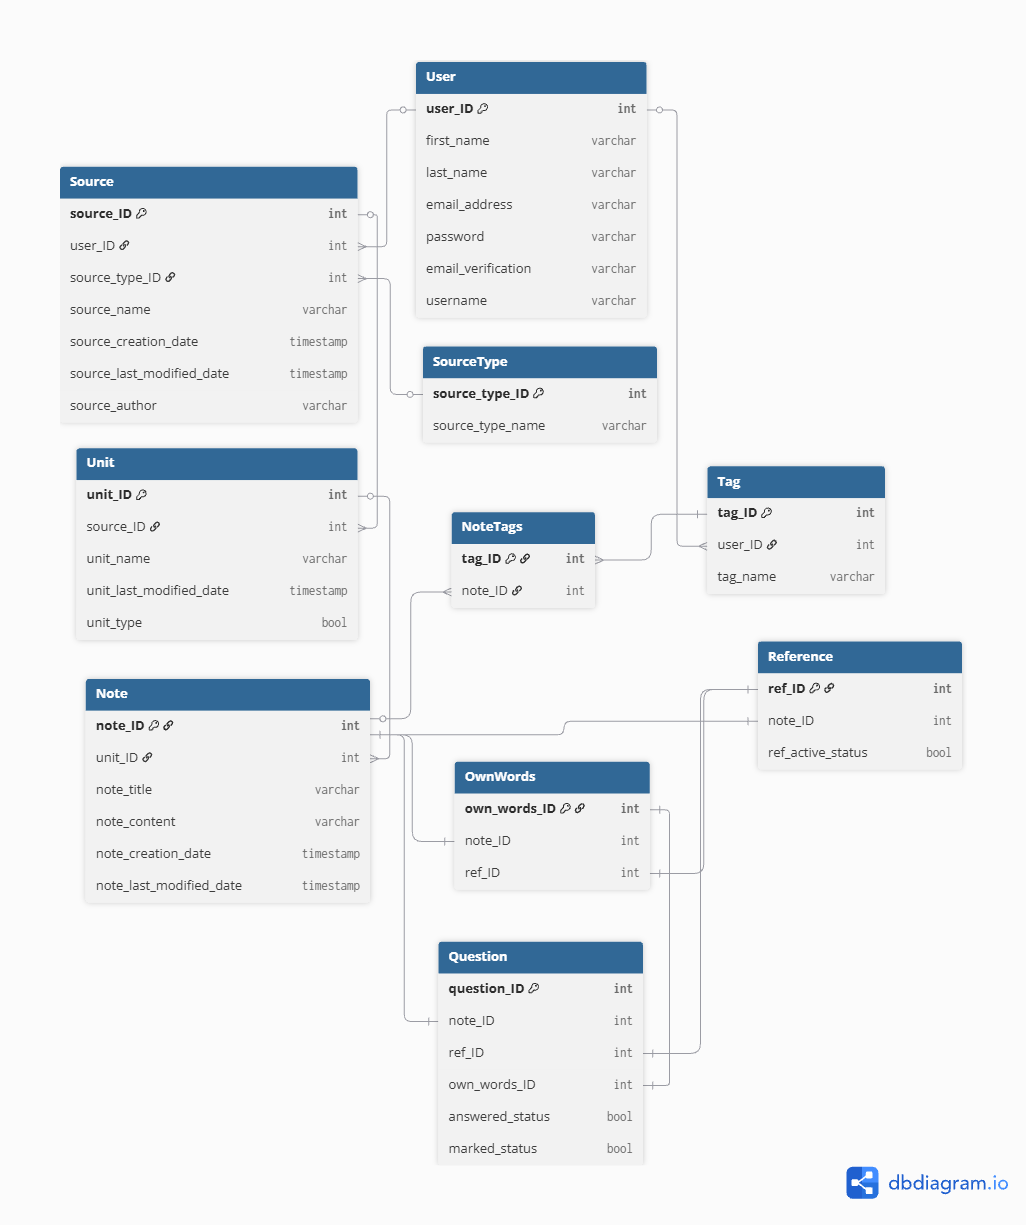
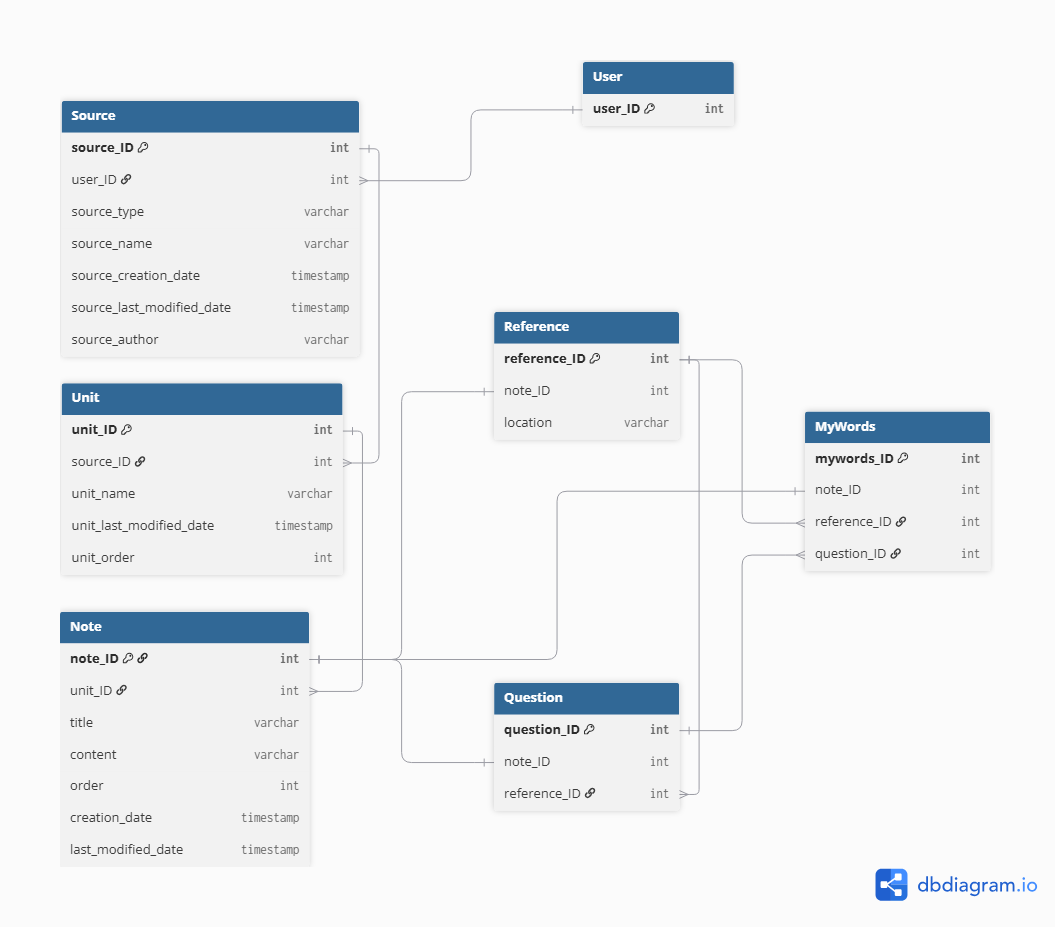
docs: add structure section to readme

diff --git a/README.md b/README.md
@@ -10,7 +10,7 @@ This workflow is derived from the Feynman Technique, which is a simple way of te
 - My Words notes - your attempt at the explanation itself: the same idea, rebuilt in your own plain language.
 - Question notes - a third note type meant to capture and make you aware of your gaps in understanding, which is arguably more important than being aware of what you already know and understand. By writing it down, you make sure it doesn't quietly disappear.
 
-The rest of this document walks through how that workflow was designed and built, loosely structured around the five planes of UX rather than the chronological order of development. This was a learn-as-you-build project and learning can be quite messy; the document tries to bring some order into chaos, and why not, be a blueprint for the development lifecycle of future projects.
+The rest of this document walks through how that workflow was designed and built, loosely structured around the five planes of UX, with some references to how some planes connects to corresponding backend decisions, rather than the chronological order of development. This was a learn-as-you-build project and learning can be quite messy; the document tries to bring some order into chaos, and why not, be a blueprint for the development lifecycle of future projects.
 
 ## Strategy
 **Origin**
@@ -51,9 +51,6 @@ graph TD
 - A third note category: **question notes** — an explicit, conscious decision to flag something as not yet understood, rather than leaving gaps implicit.
 
 The core hypothesis of this app remains untested. Rather than treat this as a limitation to work around, it defines what this project actually is: not a finished note-taking app, but the vehicle that will be used to test the hypothesis with real users, once it exists. The main target audience would be secondary school students and above (although the workflow is applicable to any independent learner engaging with source material).
-
-
-
 
 
 **Market Research for Landing and Dashboard/Editor**
@@ -473,7 +470,7 @@ Acceptance Criteria:
 - AC3: Calls-to-action are visually clear without relying on excessive decoration
 </details>
 <hr>
-<br>
+
 
 ### Features
 - Authentication: stories 1–4
@@ -490,20 +487,37 @@ Acceptance Criteria:
 - Responsiveness:story 28
 - Accessibility: story 27
 
-## Data Schema
+
+## Structure
+
+Structure, in this project, covers both the user-facing organization of features and the underlying architecture that supports it - the two are treated together here since app organization mirrors the same grouping logic as the feature themes established in Scope.
+
+### Features -> Apps
+
+- Authentication (stories 1–4) -> project level (django-allauth)
+- Structure + Comprehension Workflow (stories 5–22) -> `notes` app ( these two features map to one codebase app, as they share the same models, so splitting them wouldn't reduce coupling, just add import overhead)
+- Home Page / Walkthrough -> `pages` app
+- Feedback (story 25) -> a link in main navigation (base.html), pointing to an external Google Form — no dedicated view or app
+- Navigation (story 26) -> split into layers, each detailed below, spanning multiple templates and views rather than a single app
+
+
+### Data Schema
 "got it?" is built around a three-level hierarchy: Source -> Unit -> Note, reflecting how study material is naturally organised - a source (a book, course, or website) is broken into units (chapters, modules), and each unit holds the notes taken while studying it.
 
 **Source**
+
 The top-level container - the bibliographic reference itself. Each source belongs to a single user and has a source_type (one of eight choices: Course, Book, Website, Video, Podcast, Documentation, Article, Other), a name, and an optional author (some source types, like websites, genuinely have no author - hence null=True and blank=True on source_author field).
 A user cannot have two sources with the same name - this is enforced at the database level, not just through the form, so it holds even if validation is bypassed. Deleting a user deletes all of their sources.
 
 
 **Unit**
+
 A second-level container living inside a source - typically a chapter, module, or section. A source cannot have two units with the same name, though the same unit name can exist across different sources.
 Deleting a source deletes all of its units (on_delete=CASCADE). This is a deliberate design choice, Unit.source is a required field (null=False) - a unit cannot exist without belonging to a source, since a unit only has meaning as a subdivision of something. If cascade wasn't used here, the only other viable option would be: PROTECT which would block the source from being deleted at all while it still has units, forcing the user to manually delete every unit first. This would add friction to the app resulting in bad user experience.
 
 **Note**
-Notes are the actual content layer, and always belong to a unit. There are three types, built on a shared abstract base with title, content and timestamps. (The idea of building them on an abstrace inheritance model belongs to my tutor.)
+
+Notes are the actual content layer, and always belong to a unit. There are three types, built on a shared abstract base with title, content and timestamps. (The idea of building them on an abstract inheritance model belongs to my tutor.)
 
 - Reference — captures material directly from the source: a quote, a definition, a key passage. Can optionally record a location (page number, timestamp, URL).
 - MyWords — the user's own explanation or restatement of an idea, or relates current with prior study material or reading.
@@ -513,16 +527,28 @@ Notes are the actual content layer, and always belong to a unit. There are three
 
 MyWords and Question notes can be created from a Reference - capturing an idea in the source material, then explaining it in the user's own words or raising a question about it. MyWords notes can also be created from a Question - an answer written in response to a gap in understanding. Both My Words and Question can also be created as standalone notes - hence model level decision of having the reference FK with null = True and blank = True.
 
-Why ForeignKey, not OneToOne: a single Reference can reasonably need more than one MyWords or Question note - a reference might capture more than one idea (though not recommended), the same idea might be rephrased in several different ways as understanding develops, or it might raise more than one question. Likewise, a single Question can have more than one MyWords answer, since a question might be revisited and answered again as understanding improves. A one-to-one relationship would force exactly one explanation or question per reference, and exactly one answer per question — which doesn't reflect how learning and revisiting material actually works. ForeignKey allows many notes to originate from the same reference or question, which is the more accurate model.
+Why ForeignKey, not OneToOne: a single Reference can reasonably need more than one MyWords or Question note - a reference might capture more than one idea (though not recommended), the same idea might be rephrased in several different ways as understanding develops, or it might raise more than one question. Likewise, a single Question can have more than one MyWords answer, since a question might be revisited and answered again as understanding improves. A one-to-one relationship would force exactly one explanation or question per reference, and exactly one answer per question - which doesn't reflect how learning and revisiting material actually works. ForeignKey allows many notes to originate from the same reference or question, which is the more accurate model.
 
-Deleting a Reference or Question does not delete the notes created from it - the link is simply cleared (on_delete=SET_NULL), and the dependent note becomes a standaloe, unlike Source->Unit and Unit->Note above. This is intentional: unlike a unit without a source, a MyWords or Question note is still meaningful content on its own even if the reference or question it originated from is later removed — the user's thinking shouldn't be deleted just because its starting point was.
+Deleting a Reference or Question does not delete the notes created from it - the link is simply cleared (on_delete=SET_NULL), and the dependent note becomes a standalone, unlike Source->Unit and Unit->Note above. This is intentional: unlike a unit without a source, a MyWords or Question note is still meaningful content on its own even if the reference or question it originated from is later removed — the user's thinking shouldn't be deleted just because its starting point was.
 
-The above schema was built using the Hernandez methodology (an overkill for a project of this size, but mainly out of the panic of not getting the models wrong and some curiosity as well - not tutor approved). The full process is described in [RESEARCH.md](RESEARCH.md) and [field specifications](docs/field-specifications.md).
+The above schema was built using the Hernandez methodology, as described in `Database Design for Mere Mortals` by Michael J. Hernandez— likely overkill for a project this size, but chosen out of a combination of wanting to be thorough about getting the models right, and personal curiosity about the methodology itself. This was my own initiative rather than something suggested by my tutor. The full process is described in [RESEARCH.md](RESEARCH.md) and [field specifications](docs/field-specifications.md).
 
-## ERD
+### ERD
 Entity Relationship Diagram showing the core data structure: User, Source, Unit, Note, Reference, MyWords and Question.
 
 ![ERD](docs/readme-assets/got_it_erd.png)
+
+
+### Navigation
+Navigation is split into eight layers, each addressing a different need:
+- Navigation to external pages via footer links and give feedback link in main navbar - base.html (project level)
+- Main nav - global, project-level actions (home, feedback, dashboard, log out) - base.html (project level)
+- Secondary back-navigation (mobile only) — a step-back affordance for small screens, where the content sidebar isn't always visible on screen - `notes` app templates level
+- Sidebar / offcanvas - the Source->Unit content structure, and in Notes level pages also displaying links to the three note type tabs and standalone creation - reachable without losing your place - `notes` app partial
+- Breadcrumbs — orientation: shows exactly where you are and the path you took to get there - `notes` app template level
+- Note-type tabs — switching between Reference/My Words/Questions within a unit, without page reloads, with state synced to the URL hash so a direct link or refresh lands on the right tab - `notes` app Unit detail template
+- Pagination - sequential navigation within long lists - `notes` app template level
+- Relational linking — lets a user jump directly between related notes (e.g. from a reference to its linked My Words or Questions) rather than following the strict Source → Unit → note-type path, so related ideas stay reachable regardless of where the user currently is in the hierarchy - `notes` app template level
 
 
 ## Development Process (Agile Workflow)
@@ -551,17 +577,6 @@ Entity Relationship Diagram showing the core data structure: User, Source, Unit,
 **Handling two forms in one view**
 source_detail manages both the source-edit form and the add-unit form on a single page. Each POST is distinguished via a hidden form_type field. Whichever form isn't being submitted is reconstructed unbound (using existing instance data where relevant) so both forms render correctly regardless of which one was actually processed (pattern suggested and given by Claude AI),
 
-## Features
-### Navigation
-Navigation is split into eight layers, each addressing a different need:
-- Navigation to external pages via footer links and give feedbac link in main navbar
-- Main nav — global, app-level actions (home, feedback, dashboard, log out)
-- Secondary back-navigation (mobile only) — a step-back affordance for small screens, where the content sidebar isn't always visible on screen
-- Sidebar / offcanvas — the Source→Unit content structure, always reachable without losing your place
-- Breadcrumbs — orientation: shows exactly where you are and the path you took to get there
-- Note-type tabs — switching between Reference/My Words/Questions within a unit, without page reloads, with state synced to the URL hash so a direct link or refresh lands on the right tab
-- Pagination - sequential navigation within long lists
-- Relational linking — lets a user jump directly between related notes (e.g. from a reference to its linked My Words or Questions) rather than following the strict Source → Unit → note-type path, so related ideas stay reachable regardless of where the user currently is in the hierarchy
 
 ## Design Decisions
 
